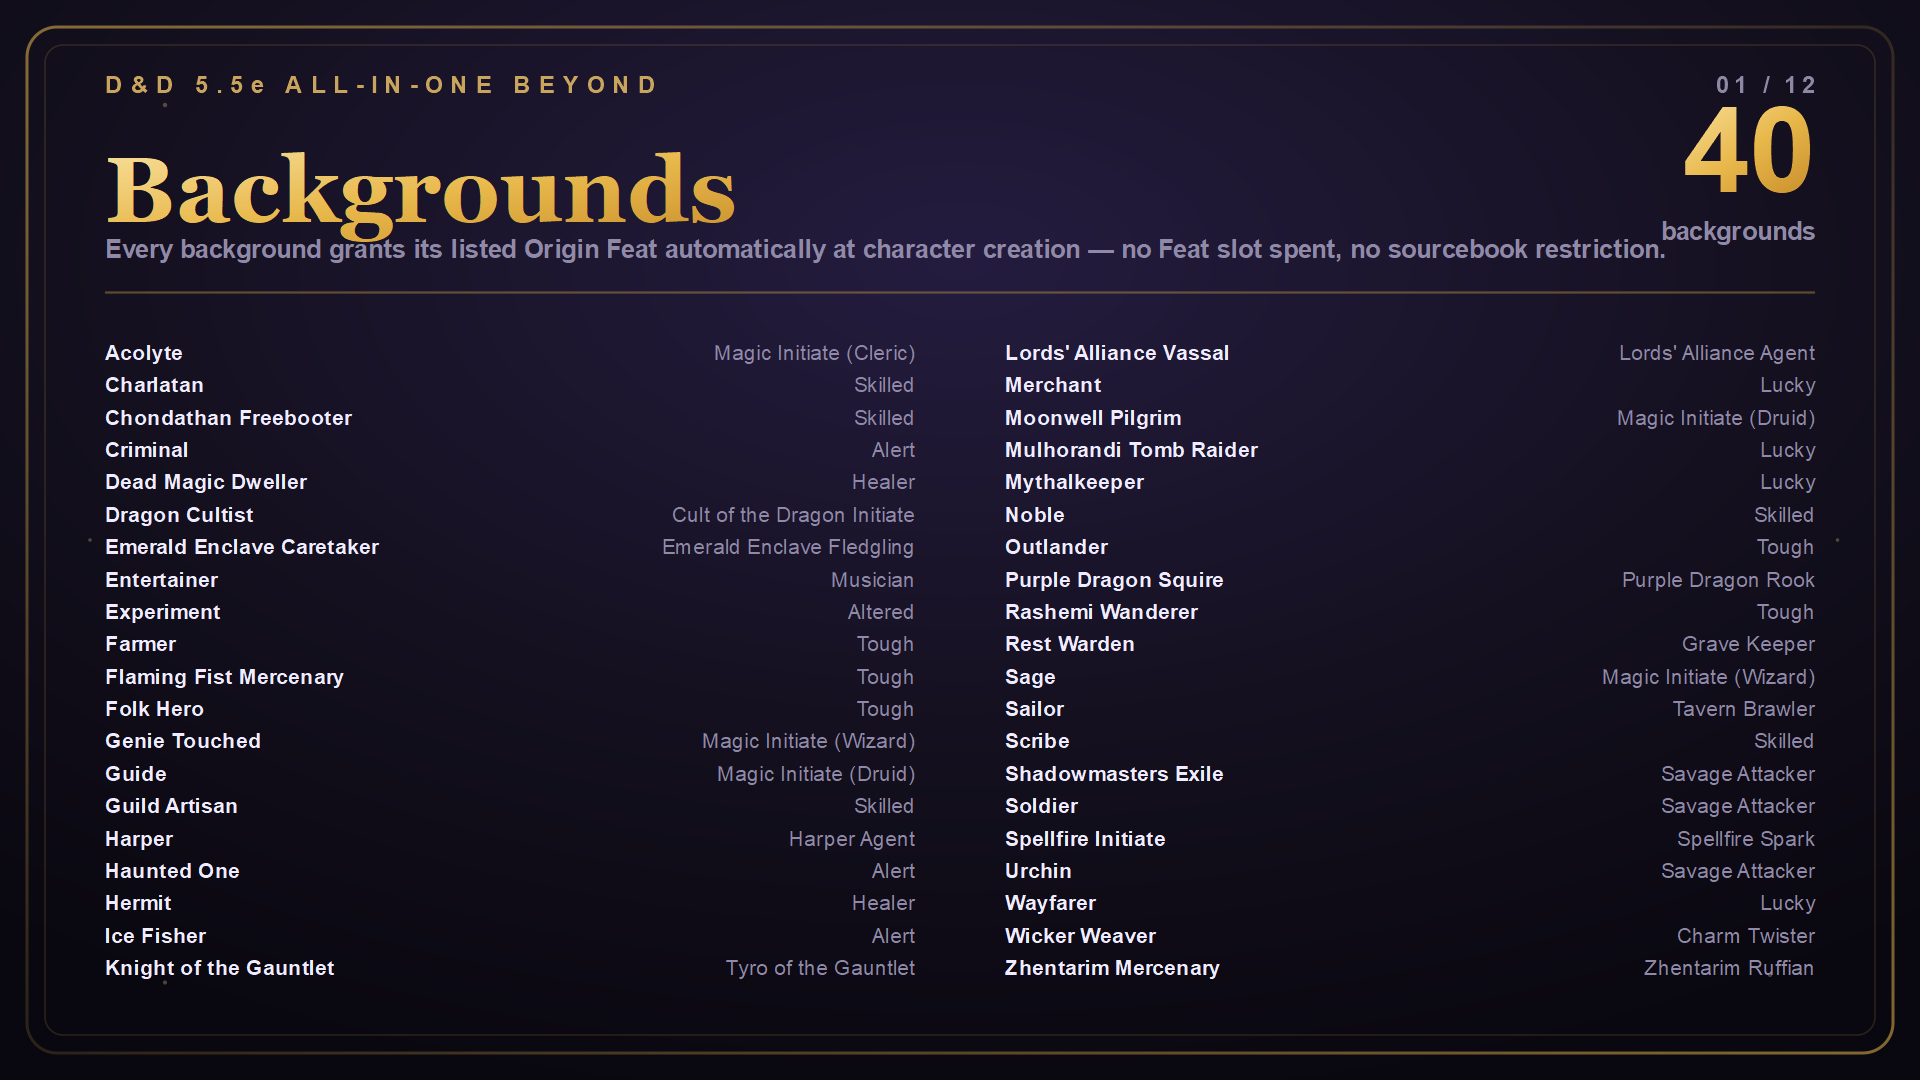
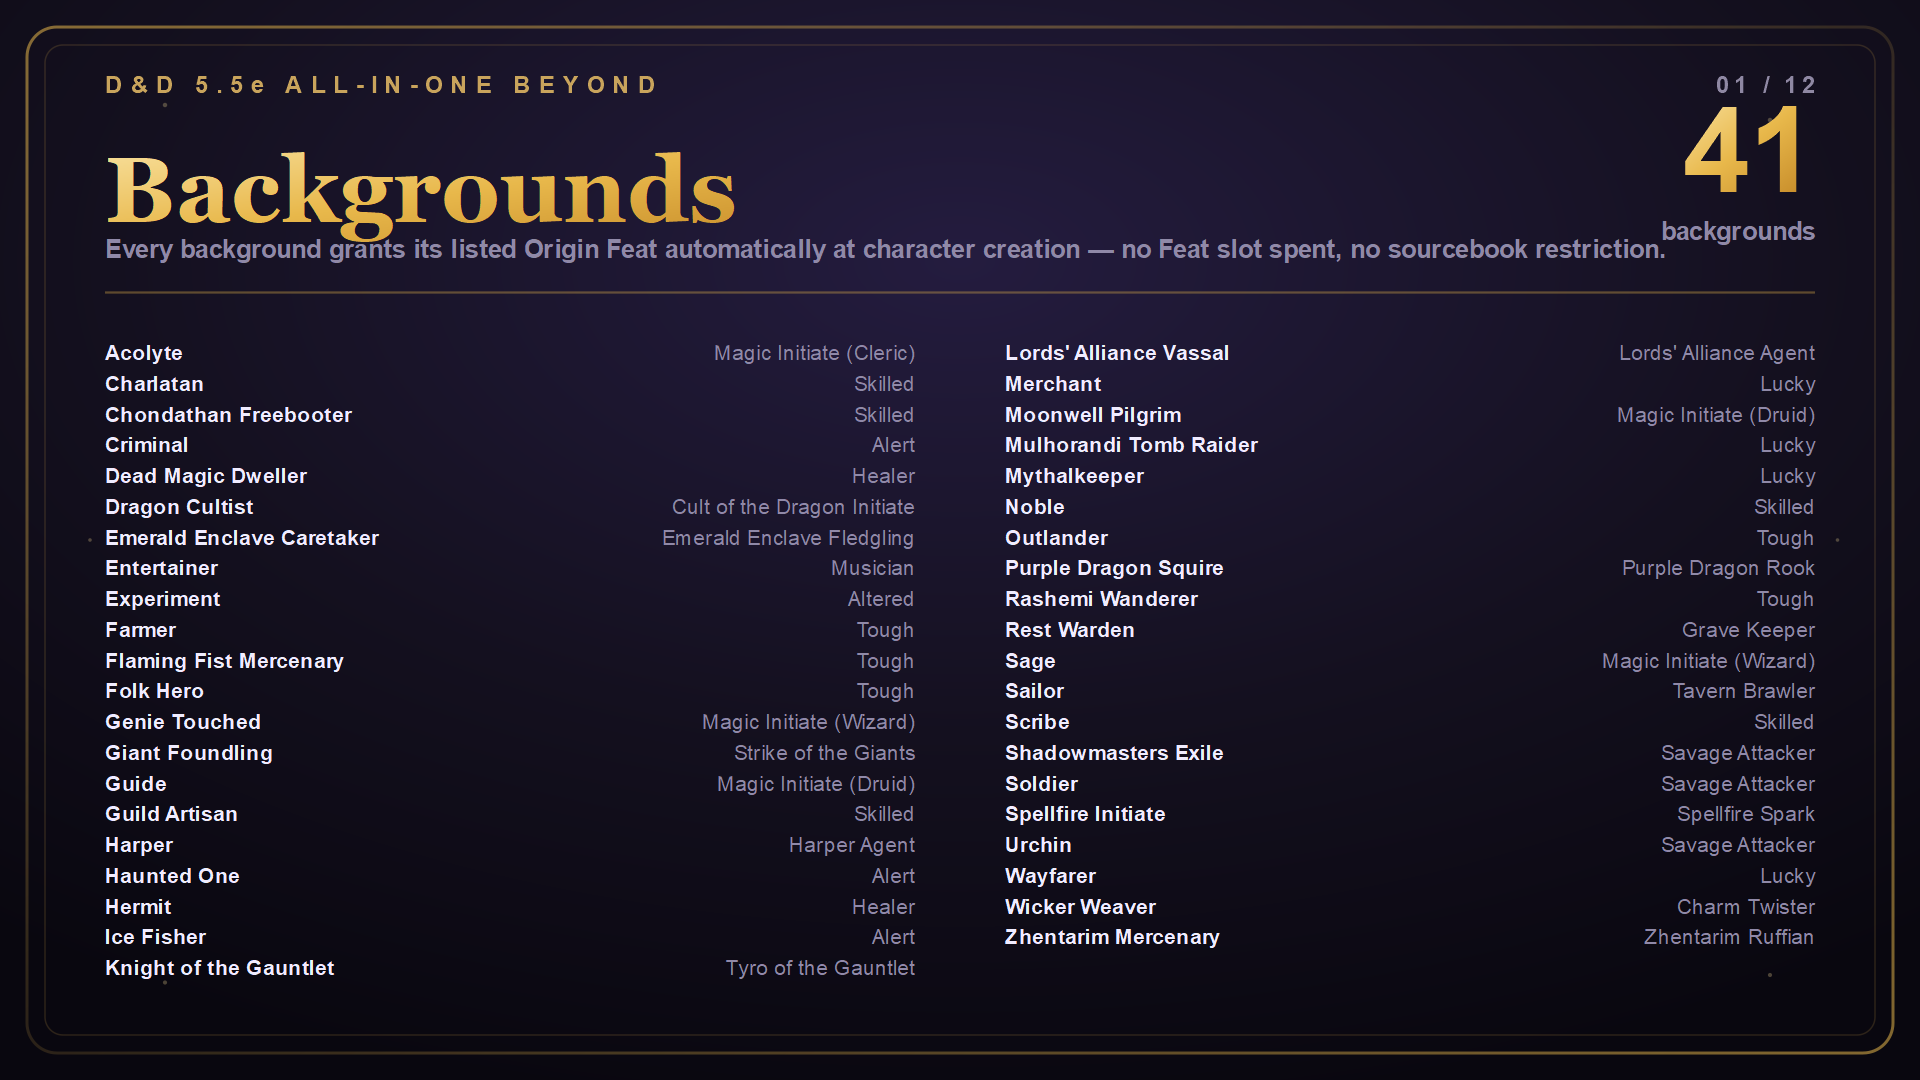
docs: list Giant Foundling and Strike of the Giants in the slides and readmes
Add the background to the readmes and the background slide, add the feat
to the feat slide, and raise the counts to 41 backgrounds and 92 feats.
Both slides are re-laid out to keep every column inside the same band -
backgrounds now runs 21 and 20 across its two columns, feats an even 23
across its four - and their PNGs are re-rendered.

diff --git a/README_Modio.html b/README_Modio.html
@@ -29,7 +29,7 @@
 
 <p>See <a href="https://github.com/Yoonmoonsik/bg3dnd/wiki/Backgrounds">Backgrounds</a>.</p>
 
-<p>40 backgrounds are available. Each grants 2 skill proficiencies and an Origin Feat at character creation: Acolyte, Charlatan, Chondathan Freebooter, Criminal, Dead Magic Dweller, Dragon Cultist, Emerald Enclave Caretaker, Entertainer, Experiment, Farmer, Flaming Fist Mercenary, Folk Hero, Genie Touched, Guide, Guild Artisan, Harper, Haunted One, Hermit, Ice Fisher, Knight of the Gauntlet, Lords' Alliance Vassal, Merchant, Moonwell Pilgrim, Mulhorandi Tomb Raider, Mythalkeeper, Noble, Outlander, Purple Dragon Squire, Rashemi Wanderer, Rest Warden, Sage, Sailor, Scribe, Shadowmasters Exile, Soldier, Spellfire Initiate, Urchin, Wayfarer, Wicker Weaver, Zhentarim Mercenary.</p>
+<p>41 backgrounds are available. Each grants 2 skill proficiencies and an Origin Feat at character creation: Acolyte, Charlatan, Chondathan Freebooter, Criminal, Dead Magic Dweller, Dragon Cultist, Emerald Enclave Caretaker, Entertainer, Experiment, Farmer, Flaming Fist Mercenary, Folk Hero, Genie Touched, Giant Foundling, Guide, Guild Artisan, Harper, Haunted One, Hermit, Ice Fisher, Knight of the Gauntlet, Lords' Alliance Vassal, Merchant, Moonwell Pilgrim, Mulhorandi Tomb Raider, Mythalkeeper, Noble, Outlander, Purple Dragon Squire, Rashemi Wanderer, Rest Warden, Sage, Sailor, Scribe, Shadowmasters Exile, Soldier, Spellfire Initiate, Urchin, Wayfarer, Wicker Weaver, Zhentarim Mercenary.</p>
 
 <h2>Classes</h2>
 

diff --git a/README.md b/README.md
@@ -41,7 +41,7 @@ For gameplay examples, build ideas, and practical references, check the playthro
 
 See [Backgrounds](https://github.com/Yoonmoonsik/bg3dnd/wiki/Backgrounds).
 
-40 backgrounds are available. Each grants 2 skill proficiencies and an Origin Feat at character creation: Acolyte, Charlatan, Chondathan Freebooter, Criminal, Dead Magic Dweller, Dragon Cultist, Emerald Enclave Caretaker, Entertainer, Experiment, Farmer, Flaming Fist Mercenary, Folk Hero, Genie Touched, Guide, Guild Artisan, Harper, Haunted One, Hermit, Ice Fisher, Knight of the Gauntlet, Lords' Alliance Vassal, Merchant, Moonwell Pilgrim, Mulhorandi Tomb Raider, Mythalkeeper, Noble, Outlander, Purple Dragon Squire, Rashemi Wanderer, Rest Warden, Sage, Sailor, Scribe, Shadowmasters Exile, Soldier, Spellfire Initiate, Urchin, Wayfarer, Wicker Weaver, Zhentarim Mercenary.
+41 backgrounds are available. Each grants 2 skill proficiencies and an Origin Feat at character creation: Acolyte, Charlatan, Chondathan Freebooter, Criminal, Dead Magic Dweller, Dragon Cultist, Emerald Enclave Caretaker, Entertainer, Experiment, Farmer, Flaming Fist Mercenary, Folk Hero, Genie Touched, Giant Foundling, Guide, Guild Artisan, Harper, Haunted One, Hermit, Ice Fisher, Knight of the Gauntlet, Lords' Alliance Vassal, Merchant, Moonwell Pilgrim, Mulhorandi Tomb Raider, Mythalkeeper, Noble, Outlander, Purple Dragon Squire, Rashemi Wanderer, Rest Warden, Sage, Sailor, Scribe, Shadowmasters Exile, Soldier, Spellfire Initiate, Urchin, Wayfarer, Wicker Weaver, Zhentarim Mercenary.
 
 ## Classes
 
